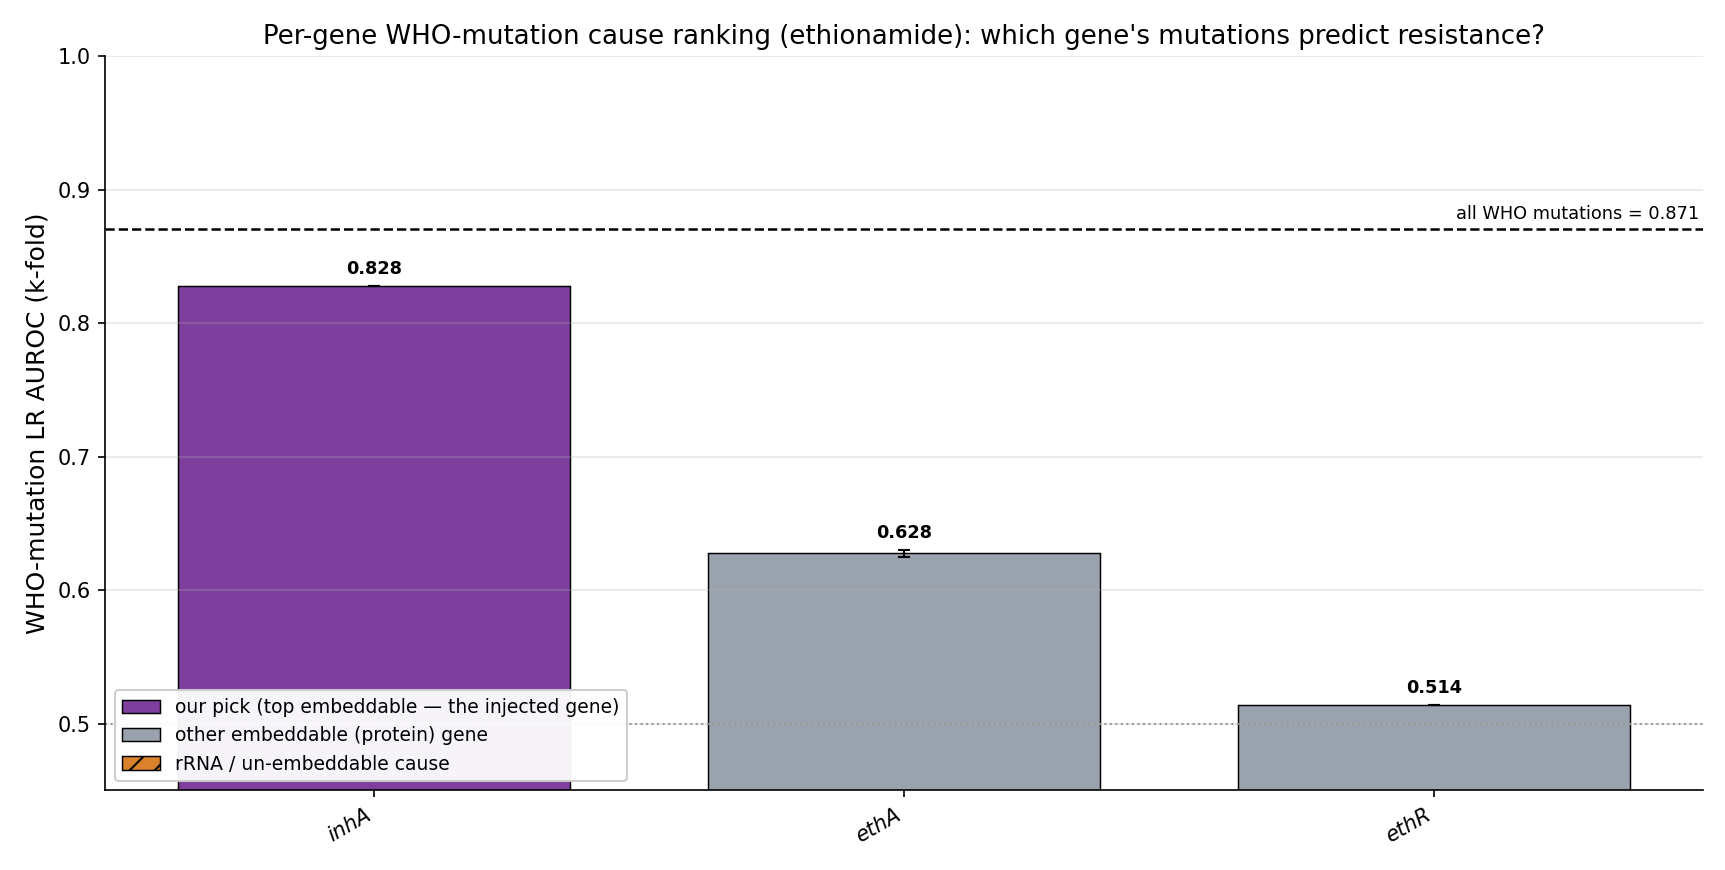
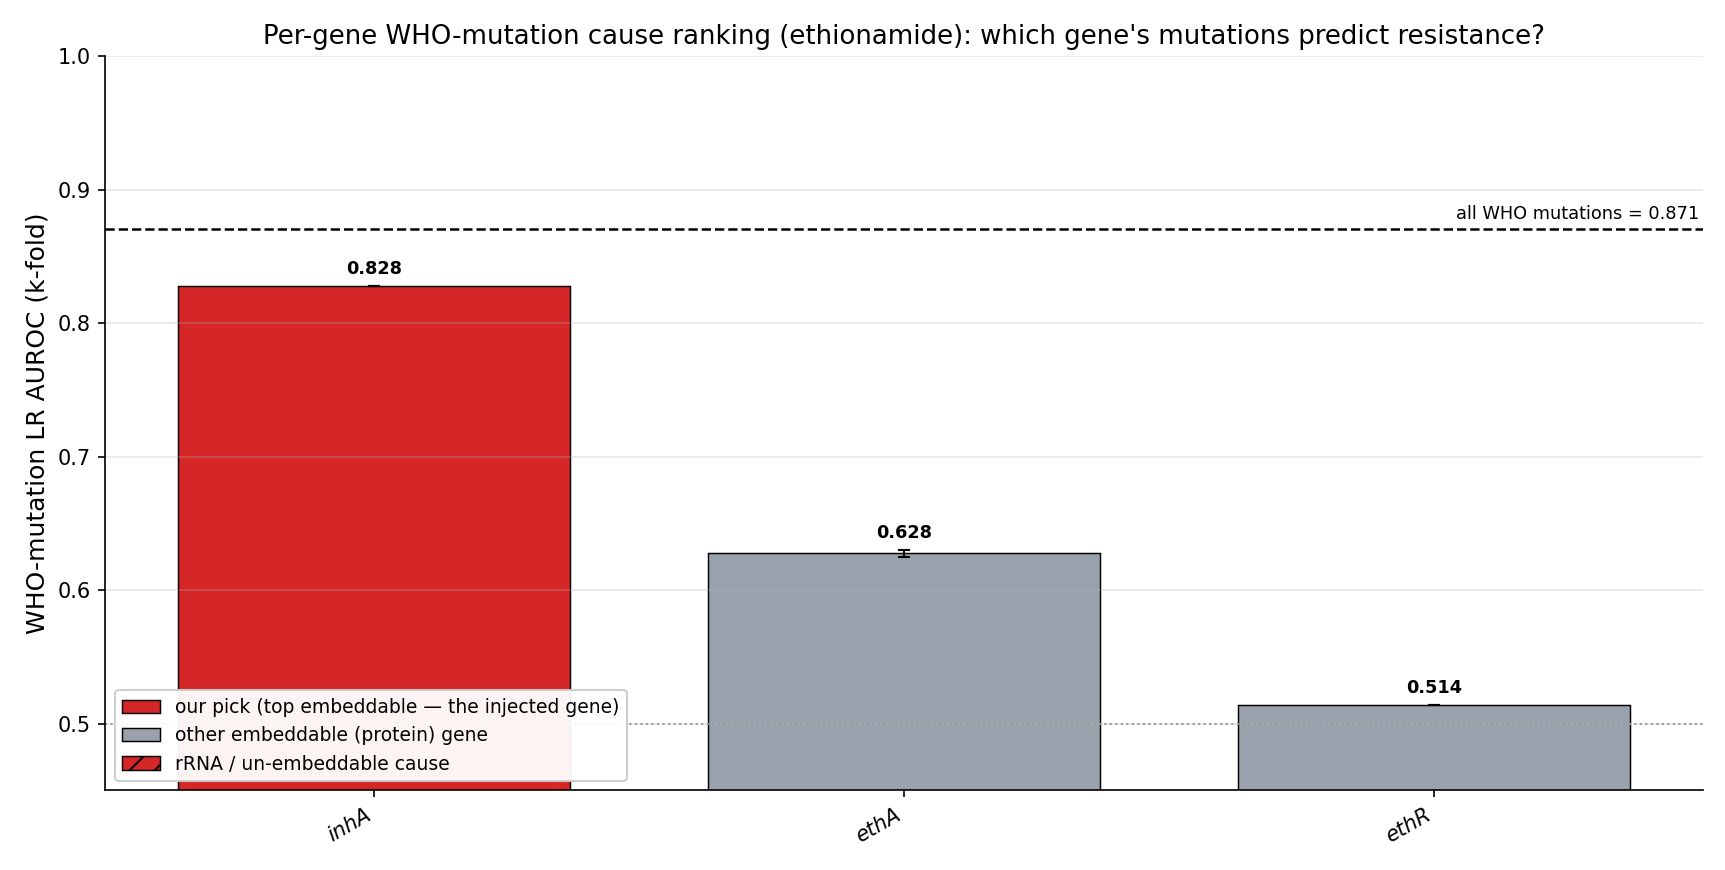
docs(snp_embeddings): unify plot palette (one-hot=red, ESM=purple, concat=royal-blue) + WHO line
Colours now encode the analytical progression across all three plot types:
  WHO one-hot = red | ESM single-gene = purple | concat = royal-blue (purple+blue blend) | Bacformer = blue
- ladder: ESM maroon->purple, concat purple->royal-blue (one-hot stays red, Bacformer blue).
- WHO one-hot histogram: pick + rRNA -> red (rRNA hatched); reads as the red WHO family.
- ESM screen: add the red "all WHO mutations" reference line (the combined one-hot ceiling, read
  from tbprofiler_gene_lr_<drug>.csv) so the best single ESM gene sits against the WHO ceiling — e.g.
  isoniazid katG 0.904 (purple) below the 0.958 red line = the non-coding inhA-promoter gap.
Regenerated all 10 ESM screens + 9 WHO histograms + the rifampicin ladder; finished the ladder move
into tb_rifampicin/.

diff --git a/src/snp_embeddings/plot_per_gene_lr_ranking.py b/src/snp_embeddings/plot_per_gene_lr_ranking.py
@@ -21,8 +21,9 @@ matplotlib.use("Agg")
 import matplotlib.pyplot as plt
 import pandas as pd
 
-PICK_COLOUR = "#7e3f9e"   # purple — matches the concat bars on the ladder ("the gene we inject")
+PICK_COLOUR = "#7e3f9e"   # purple — ESM single-gene (the family colour, consistent across plots)
 OTHER_COLOUR = "#9aa3ad"  # muted grey — the rest of the ranking
+WHO_LINE_COLOUR = "#d62728"  # red — the WHO one-hot family (the reference line)
 
 # AST column name (US) → display / directory name (the proper drug name used for tb_<drug>/ dirs).
 DRUG_DISPLAY = {"rifampin": "rifampicin"}
@@ -33,8 +34,13 @@ def display_name(drug: str) -> str:
     return DRUG_DISPLAY.get(drug, drug)
 
 
-def plot_ranking(csv_path: Path, out_path: Path, *, drug: str | None = None, top_n: int = 10) -> None:
-    """Top-``top_n`` genes by out-of-fold LR AUROC, descending; the top gene highlighted as our pick."""
+def plot_ranking(csv_path: Path, out_path: Path, *, drug: str | None = None, top_n: int = 10,
+                 who_onehot_auroc: float | None = None) -> None:
+    """Top-``top_n`` genes by out-of-fold LR AUROC, descending; the top gene highlighted as our pick.
+
+    ``who_onehot_auroc`` (the full WHO one-hot ceiling for this drug) is drawn as a red reference line,
+    so the best single ESM gene can be read against "all WHO mutations combined".
+    """
     df = pd.read_csv(csv_path)
     auroc_cols = [c for c in df.columns if c.startswith("lr_auroc_")]
     if not auroc_cols:
@@ -53,6 +59,10 @@ def plot_ranking(csv_path: Path, out_path: Path, *, drug: str | None = None, top
 
     ax.axhline(0.5, color="0.6", linestyle=":", linewidth=1.0)  # chance
     ax.text(len(top) - 0.5, 0.505, "chance", ha="right", va="bottom", fontsize=8, color="0.5")
+    if who_onehot_auroc is not None:
+        ax.axhline(who_onehot_auroc, color=WHO_LINE_COLOUR, linestyle="--", linewidth=1.4)
+        ax.text(0.0, who_onehot_auroc + 0.006, f"all WHO mutations = {who_onehot_auroc:.3f}",
+                ha="left", va="bottom", fontsize=8.5, color=WHO_LINE_COLOUR)
 
     ax.set_xticks(list(x))
     ax.set_xticklabels(top["gene_name"], rotation=30, ha="right", fontsize=10, fontstyle="italic")
@@ -65,8 +75,9 @@ def plot_ranking(csv_path: Path, out_path: Path, *, drug: str | None = None, top
     handles = [
         plt.Rectangle((0, 0), 1, 1, color=PICK_COLOUR, ec="black", lw=0.7),
         plt.Rectangle((0, 0), 1, 1, color=OTHER_COLOUR, ec="black", lw=0.7),
+        plt.Line2D([0], [0], color=WHO_LINE_COLOUR, linestyle="--", linewidth=1.4),
     ]
-    ax.legend(handles, [f"our pick: {pick} (injected gene)", "other ranked genes"],
+    ax.legend(handles, [f"our pick: {pick} (injected gene)", "other ranked genes", "all WHO mutations (one-hot)"],
               loc="upper right", fontsize=9.5, framealpha=0.95)
     ax.set_title(
         f"Per-gene LR ranking ({drug_name}): which single gene's ESM-C vector predicts resistance?",
@@ -86,11 +97,20 @@ def main() -> None:
     parser.add_argument("--drug", type=str, default="rifampin", help="AST drug column to rank by.")
     parser.add_argument("--top-n", type=int, default=10)
     parser.add_argument("--out", type=Path, default=None,
-                        help="Output PNG (default: docs/visualisations/tb_<drug>/<drug>_per_gene_lr_ranking.png).")
+                        help="Output PNG (default: docs/visualisations/tb_<drug>/<drug>_esm_lr_screen_histogram.png).")
+    parser.add_argument("--who-onehot-csv", type=Path, default=None,
+                        help="tbprofiler_gene_lr_<drug>.csv — draws its __ALL_WHO_one_hot__ AUROC as a red "
+                             "reference line (default: docs/tbprofiler_gene_lr_<drug>.csv if present).")
     args = parser.parse_args()
     disp = display_name(args.drug)
     out = args.out or here / "docs" / "visualisations" / f"tb_{disp}" / f"{disp}_esm_lr_screen_histogram.png"
-    plot_ranking(args.csv, out, drug=args.drug, top_n=args.top_n)
+    who_csv = args.who_onehot_csv or here / "docs" / f"tbprofiler_gene_lr_{args.drug}.csv"
+    who_auroc = None
+    if who_csv.exists():
+        wdf = pd.read_csv(who_csv)
+        row = wdf[wdf["gene_name"] == "__ALL_WHO_one_hot__"]
+        who_auroc = float(row["mut_auroc"].iloc[0]) if not row.empty else None
+    plot_ranking(args.csv, out, drug=args.drug, top_n=args.top_n, who_onehot_auroc=who_auroc)
     print(f"Wrote {out}")
 
 

diff --git a/src/snp_embeddings/plot_ladder_barplot.py b/src/snp_embeddings/plot_ladder_barplot.py
@@ -22,11 +22,13 @@ import matplotlib.pyplot as plt
 import pandas as pd
 
 # Family → colour (the user's scheme).
+# Family palette encodes the one-hot → single-gene → combined progression:
+#   WHO one-hot = red, ESM single-gene = purple, combined = royal-blue (purple+blue blend), Bacformer = blue.
 FAMILY_COLOURS = {
-    "Bacformer": "#1f77b4",  # blue
-    "ESM": "#800000",        # maroon
-    "one-hot": "#d62728",    # red
-    "mix": "#7e3f9e",        # purple (Bacformer ⊕ ESM)
+    "Bacformer": "#1f77b4",  # blue — genome-pooled Bacformer alone
+    "ESM": "#7e3f9e",        # purple — ESM single-gene
+    "one-hot": "#d62728",    # red — WHO one-hot mutation
+    "mix": "#4f46c8",        # royal-blue/indigo — concat (ESM ⊕ Bacformer)
 }
 FAMILY_LABEL = {
     "Bacformer": "Bacformer embedding",

diff --git a/src/snp_embeddings/plot_cause_histogram.py b/src/snp_embeddings/plot_cause_histogram.py
@@ -26,9 +26,11 @@ matplotlib.use("Agg")
 import matplotlib.pyplot as plt
 import pandas as pd
 
-PICK_COLOUR = "#7e3f9e"     # purple — top embeddable ("our pick", the injected gene)
+# WHO one-hot is the red family (consistent across plots). The top embeddable gene is the "pick" we
+# could inject; rRNA / un-embeddable causes are the same red but hatched (real cause, can't be embedded).
+PICK_COLOUR = "#d62728"     # red — top embeddable WHO cause (the injectable pick)
 EMBED_COLOUR = "#9aa3ad"    # grey — other embeddable (protein) genes
-RRNA_COLOUR = "#d9822b"     # orange — rRNA / un-embeddable causes (hatched)
+RRNA_COLOUR = "#d62728"     # red, hatched — rRNA / un-embeddable causes
 ALL_KEY = "__ALL_WHO_one_hot__"
 DRUG_DISPLAY = {"rifampin": "rifampicin"}
 
